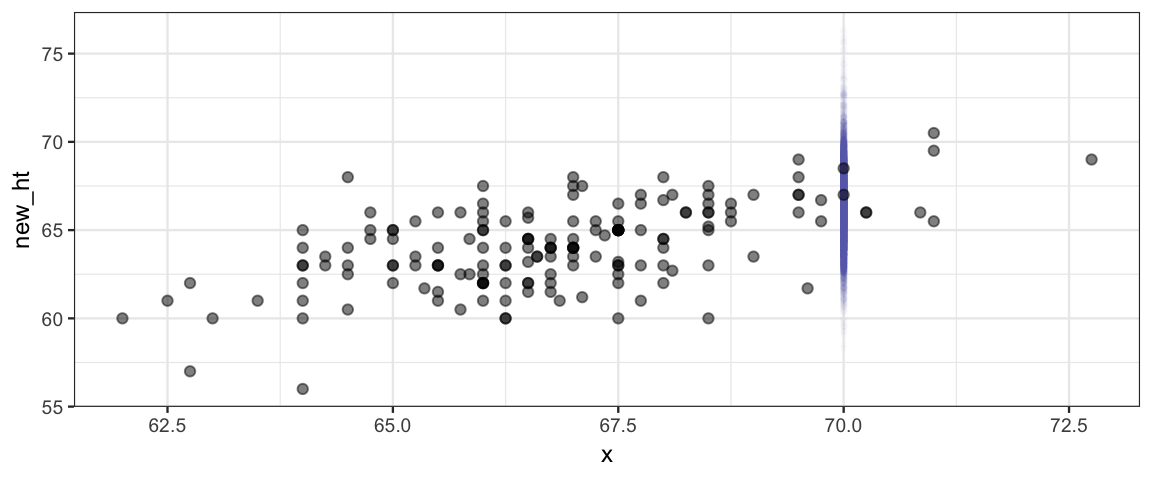
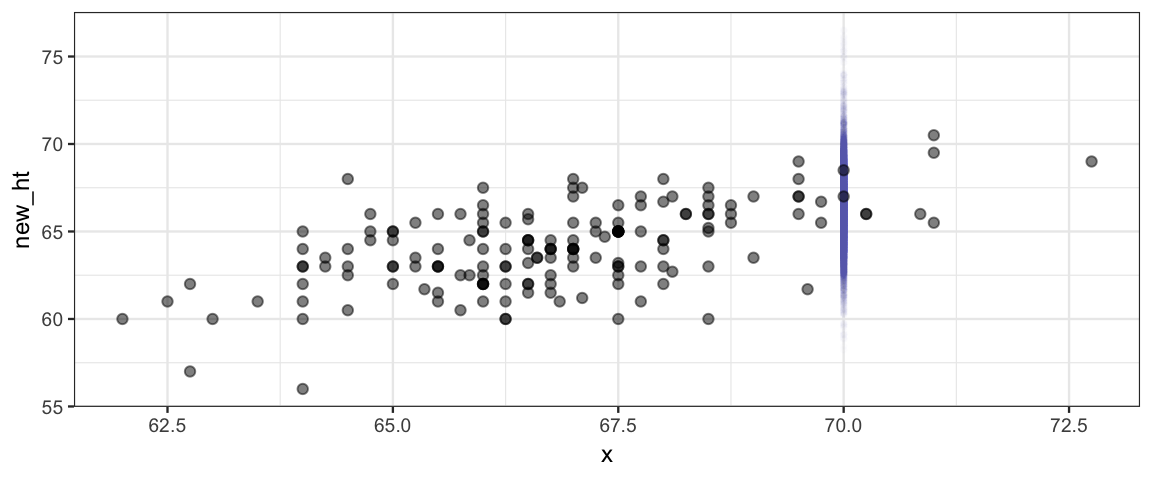
rebuild chap 17

diff --git a/docs/simple-linear-regression.html b/docs/simple-linear-regression.html
@@ -381,6 +381,7 @@ code span.wa { color: #60a0b0; font-weight: bold; font-style: italic; } /* Warni
 <li class="chapter" data-level="18.1.2" data-path="multiple-metric-predictors.html"><a href="multiple-metric-predictors.html#sat-vs-expenditure-and-percent-taking-the-test"><i class="fa fa-check"></i><b>18.1.2</b> SAT vs expenditure and percent taking the test</a></li>
 <li class="chapter" data-level="18.1.3" data-path="multiple-metric-predictors.html"><a href="multiple-metric-predictors.html#multiple-predictors-in-pictures"><i class="fa fa-check"></i><b>18.1.3</b> Multiple predictors in pictures</a></li>
 </ul></li>
+<li class="chapter" data-level="18.2" data-path="multiple-metric-predictors.html"><a href="multiple-metric-predictors.html#ch18-exercises"><i class="fa fa-check"></i><b>18.2</b> Exercises</a></li>
 </ul></li>
 </ul>
 
@@ -819,14 +820,14 @@ that mean. We can add that information in by taking our estimate for
 <p>Here we generate heights by adding noise to the estimate given by
 values of <span class="math inline">\(\beta_0\)</span> and <span class="math inline">\(\beta_1\)</span>.</p>
 <pre class="sourceCode r"><code class="sourceCode r"><span class="kw">posterior</span>(galtonC_jags) <span class="op">%&gt;%</span><span class="st">  </span>
-<span class="st">  </span><span class="kw">mutate</span>(<span class="dt">new_ht =</span> beta0 <span class="op">+</span><span class="st"> </span>beta1 <span class="op">*</span><span class="st"> </span><span class="dv">70</span> <span class="op">+</span><span class="st"> </span><span class="kw">rstudent_t</span>(<span class="dv">1200</span>, <span class="dt">df =</span> nu, <span class="dt">sd =</span> sigma)) <span class="op">%&gt;%</span>
+<span class="st">  </span><span class="kw">mutate</span>(<span class="dt">new_ht =</span> beta0 <span class="op">+</span><span class="st"> </span>beta1 <span class="op">*</span><span class="st"> </span><span class="dv">70</span> <span class="op">+</span><span class="st"> </span><span class="kw">rstudent_t</span>(<span class="dv">1200</span>, <span class="dt">df =</span> nu, <span class="dt">sigma =</span> sigma)) <span class="op">%&gt;%</span>
 <span class="st">  </span><span class="kw">gf_point</span>(new_ht <span class="op">~</span><span class="st"> </span><span class="dv">70</span>, <span class="dt">alpha =</span> <span class="fl">0.01</span>, <span class="dt">size =</span> <span class="fl">0.7</span>, <span class="dt">color =</span> <span class="st">&quot;steelblue&quot;</span>) <span class="op">%&gt;%</span>
 <span class="st">  </span><span class="kw">gf_point</span>(height <span class="op">~</span><span class="st"> </span>midparent, <span class="dt">data =</span> GaltonW, 
            <span class="dt">inherit =</span> <span class="ot">FALSE</span>, <span class="dt">alpha =</span> <span class="fl">0.5</span>) </code></pre>
 <p><img src="Redoing_files/figure-html/ch17-galtonC-plot-predictions-1.png" width="576" /></p>
 <pre class="sourceCode r"><code class="sourceCode r">Galton_hdi2 &lt;-
 <span class="st">  </span><span class="kw">posterior</span>(galtonC_jags) <span class="op">%&gt;%</span><span class="st"> </span>
-<span class="st">  </span><span class="kw">mutate</span>(<span class="dt">new_ht =</span> beta0 <span class="op">+</span><span class="st"> </span>beta1 <span class="op">*</span><span class="st"> </span><span class="dv">70</span> <span class="op">+</span><span class="st"> </span><span class="kw">rstudent_t</span>(<span class="dv">1200</span>, <span class="dt">df =</span> nu, <span class="dt">sd =</span> sigma)) <span class="op">%&gt;%</span>
+<span class="st">  </span><span class="kw">mutate</span>(<span class="dt">new_ht =</span> beta0 <span class="op">+</span><span class="st"> </span>beta1 <span class="op">*</span><span class="st"> </span><span class="dv">70</span> <span class="op">+</span><span class="st"> </span><span class="kw">rstudent_t</span>(<span class="dv">1200</span>, <span class="dt">df =</span> nu, <span class="dt">sigma =</span> sigma)) <span class="op">%&gt;%</span>
 <span class="st">  </span><span class="kw">hdi</span>(<span class="dt">regex_pars =</span> <span class="st">&quot;new&quot;</span>) 
 Galton_hdi2</code></pre>
 <table>
@@ -841,16 +842,16 @@ Galton_hdi2</code></pre>
 <tbody>
 <tr class="odd">
 <td align="left">new_ht</td>
-<td align="right">62.61</td>
-<td align="right">70.35</td>
+<td align="right">62.38</td>
+<td align="right">70.53</td>
 <td align="right">0.95</td>
 </tr>
 </tbody>
 </table>
 <p>So our model expects that most daughters whose parents have a midparent height
 of 70 inches are between<br />
-62.6 and
-70.3
+62.4 and
+70.5
 inches tall. Notice that this interval
 is taking into account both the uncertainty in our estimates of the
 parameters <span class="math inline">\(\beta_0\)</span>, <span class="math inline">\(\beta_1\)</span>, <span class="math inline">\(\sigma\)</span>, and <span class="math inline">\(\nu\)</span> and the variability in
@@ -866,7 +867,7 @@ Grid &lt;-<span class="st"> </span>
 <span class="st">  </span><span class="kw">expand.grid</span>(<span class="dt">midparent =</span> <span class="dv">60</span><span class="op">:</span><span class="dv">75</span>, <span class="dt">iter =</span> <span class="dv">1</span><span class="op">:</span><span class="kw">nrow</span>(Post_galtonC)) 
  
 <span class="kw">posterior</span>(galtonC_jags) <span class="op">%&gt;%</span>
-<span class="st">  </span><span class="kw">mutate</span>(<span class="dt">noise =</span> <span class="kw">rstudent_t</span>(<span class="dv">12000</span>, <span class="dt">df =</span> nu, <span class="dt">sd =</span> sigma)) <span class="op">%&gt;%</span>
+<span class="st">  </span><span class="kw">mutate</span>(<span class="dt">noise =</span> <span class="kw">rstudent_t</span>(<span class="dv">12000</span>, <span class="dt">df =</span> nu, <span class="dt">sigma =</span> sigma)) <span class="op">%&gt;%</span>
 <span class="st">  </span><span class="kw">left_join</span>(Grid) <span class="op">%&gt;%</span>
 <span class="st">  </span><span class="kw">mutate</span>(<span class="dt">height =</span> beta0 <span class="op">+</span><span class="st"> </span>beta1 <span class="op">*</span><span class="st"> </span>midparent <span class="op">+</span><span class="st"> </span>noise) <span class="op">%&gt;%</span><span class="st"> </span>
 <span class="st">  </span><span class="kw">group_by</span>(midparent) <span class="op">%&gt;%</span>
@@ -876,24 +877,24 @@ Grid &lt;-<span class="st"> </span>
 ## # Groups:   midparent [16]
 ##    midparent par       lo    hi  prob
 ##        &lt;int&gt; &lt;fct&gt;  &lt;dbl&gt; &lt;dbl&gt; &lt;dbl&gt;
-##  1        60 height  55.3  63.0  0.95
-##  2        61 height  56.1  63.7  0.95
-##  3        62 height  56.8  64.3  0.95
-##  4        63 height  57.6  65.0  0.95
-##  5        64 height  58.3  65.7  0.95
-##  6        65 height  59.1  66.5  0.95
-##  7        66 height  59.9  67.2  0.95
-##  8        67 height  60.6  67.9  0.95
-##  9        68 height  61.4  68.7  0.95
-## 10        69 height  62.2  69.6  0.95
-## 11        70 height  62.9  70.3  0.95
-## 12        71 height  63.7  71.1  0.95
-## 13        72 height  64.2  71.7  0.95
-## 14        73 height  65.0  72.5  0.95
-## 15        74 height  65.6  73.2  0.95
-## 16        75 height  66.4  74.1  0.95</code></pre>
+##  1        60 height  55.2  63.2  0.95
+##  2        61 height  55.9  63.9  0.95
+##  3        62 height  56.7  64.6  0.95
+##  4        63 height  57.4  65.3  0.95
+##  5        64 height  58.3  66.1  0.95
+##  6        65 height  59.1  66.8  0.95
+##  7        66 height  59.7  67.4  0.95
+##  8        67 height  60.5  68.2  0.95
+##  9        68 height  61.2  69.0  0.95
+## 10        69 height  61.9  69.6  0.95
+## 11        70 height  62.6  70.4  0.95
+## 12        71 height  63.1  70.9  0.95
+## 13        72 height  63.9  71.8  0.95
+## 14        73 height  64.7  72.5  0.95
+## 15        74 height  65.4  73.3  0.95
+## 16        75 height  66.0  74.1  0.95</code></pre>
 <pre class="sourceCode r"><code class="sourceCode r"><span class="kw">posterior</span>(galtonC_jags) <span class="op">%&gt;%</span>
-<span class="st">  </span><span class="kw">mutate</span>(<span class="dt">noise =</span> <span class="kw">rstudent_t</span>(<span class="dv">12000</span>, <span class="dt">df =</span> nu, <span class="dt">sd =</span> sigma)) <span class="op">%&gt;%</span>
+<span class="st">  </span><span class="kw">mutate</span>(<span class="dt">noise =</span> <span class="kw">rstudent_t</span>(<span class="dv">12000</span>, <span class="dt">df =</span> nu, <span class="dt">sigma =</span> sigma)) <span class="op">%&gt;%</span>
 <span class="st">  </span><span class="kw">left_join</span>(Grid) <span class="op">%&gt;%</span>
 <span class="st">  </span><span class="kw">mutate</span>(<span class="dt">avg_height =</span> beta0 <span class="op">+</span><span class="st"> </span>beta1 <span class="op">*</span><span class="st"> </span>midparent,
          <span class="dt">height =</span> avg_height <span class="op">+</span><span class="st"> </span>noise) <span class="op">%&gt;%</span><span class="st"> </span>
@@ -944,7 +945,7 @@ y_ind &lt;-<span class="st"> </span>
 <span class="st">  </span><span class="kw">posterior_calc</span>(
     galtonC_jags, 
     height <span class="op">~</span><span class="st"> </span>
-<span class="st">      </span>beta0 <span class="op">+</span><span class="st"> </span>beta1 <span class="op">*</span><span class="st"> </span>midparent <span class="op">+</span><span class="st"> </span><span class="kw">rstudent_t</span>(<span class="kw">nrow</span>(GaltonW), <span class="dt">df =</span> nu, <span class="dt">sd =</span> sigma), 
+<span class="st">      </span>beta0 <span class="op">+</span><span class="st"> </span>beta1 <span class="op">*</span><span class="st"> </span>midparent <span class="op">+</span><span class="st"> </span><span class="kw">rstudent_t</span>(<span class="kw">nrow</span>(GaltonW), <span class="dt">df =</span> nu, <span class="dt">sigma =</span> sigma), 
     <span class="dt">data =</span> GaltonW)</code></pre>
 <p>The various posterior predictive check plots begin <code>ppc_</code>. Here is an example:</p>
 <pre class="sourceCode r"><code class="sourceCode r"><span class="kw">ppc_intervals</span>(GaltonW<span class="op">$</span>height, y_avg, <span class="dt">x =</span> GaltonW<span class="op">$</span>midparent)</code></pre>
@@ -968,11 +969,11 @@ own plot however we like.</p>
 ## $ x           &lt;dbl&gt; 72.75, 69.75, 67.50, 67.75, 68.00, 67.75, 67.75, 67.50, 67.00, 67.00, 68.00, …
 ## $ outer_width &lt;dbl&gt; 0.9, 0.9, 0.9, 0.9, 0.9, 0.9, 0.9, 0.9, 0.9, 0.9, 0.9, 0.9, 0.9, 0.9, 0.9, 0.…
 ## $ inner_width &lt;dbl&gt; 0.5, 0.5, 0.5, 0.5, 0.5, 0.5, 0.5, 0.5, 0.5, 0.5, 0.5, 0.5, 0.5, 0.5, 0.5, 0.…
-## $ ll          &lt;dbl&gt; 65.43, 63.27, 61.70, 61.72, 61.96, 61.74, 61.87, 61.66, 61.25, 61.20, 62.00, …
-## $ l           &lt;dbl&gt; 67.29, 65.09, 63.47, 63.59, 63.79, 63.59, 63.64, 63.45, 63.07, 63.04, 63.82, …
-## $ m           &lt;dbl&gt; 68.51, 66.32, 64.64, 64.79, 65.01, 64.79, 64.84, 64.63, 64.27, 64.26, 65.03, …
-## $ h           &lt;dbl&gt; 69.76, 67.54, 65.85, 66.00, 66.17, 66.01, 66.00, 65.82, 65.48, 65.48, 66.21, …
-## $ hh          &lt;dbl&gt; 71.64, 69.34, 67.68, 67.83, 68.02, 67.87, 67.87, 67.60, 67.28, 67.28, 68.02, …</code></pre>
+## $ ll          &lt;dbl&gt; 65.28, 63.12, 61.52, 61.55, 61.79, 61.59, 61.71, 61.51, 61.09, 61.01, 61.84, …
+## $ l           &lt;dbl&gt; 67.22, 65.02, 63.41, 63.52, 63.72, 63.51, 63.57, 63.39, 63.01, 62.98, 63.74, …
+## $ m           &lt;dbl&gt; 68.51, 66.32, 64.64, 64.78, 65.01, 64.79, 64.85, 64.63, 64.27, 64.26, 65.03, …
+## $ h           &lt;dbl&gt; 69.83, 67.62, 65.91, 66.07, 66.24, 66.07, 66.08, 65.89, 65.55, 65.55, 66.28, …
+## $ hh          &lt;dbl&gt; 71.79, 69.48, 67.85, 68.01, 68.18, 68.03, 68.04, 67.76, 67.44, 67.44, 68.18, …</code></pre>
 <pre class="sourceCode r"><code class="sourceCode r">plot_data <span class="op">%&gt;%</span>
 <span class="st">  </span><span class="kw">gf_ribbon</span>(ll <span class="op">+</span><span class="st"> </span>hh <span class="op">~</span><span class="st"> </span>x, <span class="dt">fill =</span> <span class="st">&quot;steelblue&quot;</span>) <span class="op">%&gt;%</span>
 <span class="st">  </span><span class="kw">gf_ribbon</span>(l <span class="op">+</span><span class="st"> </span>h <span class="op">~</span><span class="st"> </span>x, <span class="dt">fill =</span> <span class="st">&quot;steelblue&quot;</span>) <span class="op">%&gt;%</span>
@@ -1067,7 +1068,7 @@ but this doesn’t bother Stan the way it bothers JAGS.</p>
 ## nu           32.68    0.63 26.05    6.31   14.08   24.86   43.31  101.70  1711    1
 ## lp__       -249.99    0.04  1.35 -253.50 -250.62 -249.66 -249.00 -248.33  1401    1
 ## 
-## Samples were drawn using NUTS(diag_e) at Mon Apr  1 14:51:36 2019.
+## Samples were drawn using NUTS(diag_e) at Mon Apr  1 21:51:00 2019.
 ## For each parameter, n_eff is a crude measure of effective sample size,
 ## and Rhat is the potential scale reduction factor on split chains (at 
 ## convergence, Rhat=1).</code></pre>
@@ -1184,7 +1185,7 @@ Post_galton2 &lt;-<span class="st"> </span><span class="kw">posterior</span>(gal
 <span class="st">  </span><span class="kw">posterior_calc</span>(
     galton2_stanfit, 
     yind <span class="op">~</span><span class="st"> </span>beta0 <span class="op">+</span><span class="st"> </span>beta1 <span class="op">*</span><span class="st"> </span>midparent <span class="op">+</span><span class="st"> </span>beta2 <span class="op">*</span><span class="st"> </span>g <span class="op">+</span><span class="st"> </span>
-<span class="st">           </span><span class="kw">rstudent_t</span>(<span class="kw">nrow</span>(GaltonBoth), <span class="dt">df =</span> nu, <span class="dt">mean =</span> <span class="dv">0</span>, <span class="dt">sd =</span> sigma),
+<span class="st">           </span><span class="kw">rstudent_t</span>(<span class="kw">nrow</span>(GaltonBoth), <span class="dt">df =</span> nu, <span class="dt">mean =</span> <span class="dv">0</span>, <span class="dt">sigma =</span> sigma),
     <span class="dt">data =</span> GaltonBoth
   )
 <span class="kw">ppc_intervals_grouped</span>(
@@ -1204,11 +1205,11 @@ Post_galton2 &lt;-<span class="st"> </span><span class="kw">posterior</span>(gal
 ## $ x           &lt;dbl&gt; 72.75, 69.75, 67.50, 67.85, 67.50, 67.75, 68.00, 67.75, 67.75, 67.50, 67.00, …
 ## $ outer_width &lt;dbl&gt; 0.9, 0.9, 0.9, 0.9, 0.9, 0.9, 0.9, 0.9, 0.9, 0.9, 0.9, 0.9, 0.9, 0.9, 0.9, 0.…
 ## $ inner_width &lt;dbl&gt; 0.5, 0.5, 0.5, 0.5, 0.5, 0.5, 0.5, 0.5, 0.5, 0.5, 0.5, 0.5, 0.5, 0.5, 0.5, 0.…
-## $ ll          &lt;dbl&gt; 64.18, 62.45, 66.32, 66.57, 66.44, 66.38, 66.58, 61.25, 61.18, 61.13, 66.18, …
-## $ l           &lt;dbl&gt; 66.31, 64.46, 68.43, 68.62, 68.44, 68.46, 68.72, 63.36, 63.39, 63.18, 68.10, …
-## $ m           &lt;dbl&gt; 67.79, 65.90, 69.79, 70.02, 69.78, 69.90, 70.08, 64.72, 64.76, 64.53, 69.50, …
-## $ h           &lt;dbl&gt; 69.20, 67.31, 71.12, 71.34, 71.15, 71.28, 71.44, 66.14, 66.11, 65.91, 70.88, …
-## $ hh          &lt;dbl&gt; 71.29, 69.31, 73.28, 73.33, 73.23, 73.33, 73.58, 68.22, 68.12, 67.99, 72.91, …</code></pre>
+## $ ll          &lt;dbl&gt; 64.03, 62.26, 66.18, 66.40, 66.25, 66.20, 66.41, 61.08, 60.97, 60.99, 66.02, …
+## $ l           &lt;dbl&gt; 66.25, 64.39, 68.35, 68.55, 68.37, 68.39, 68.65, 63.28, 63.32, 63.12, 68.01, …
+## $ m           &lt;dbl&gt; 67.79, 65.90, 69.79, 70.02, 69.78, 69.90, 70.07, 64.71, 64.76, 64.53, 69.51, …
+## $ h           &lt;dbl&gt; 69.27, 67.37, 71.19, 71.41, 71.22, 71.35, 71.52, 66.21, 66.20, 65.99, 70.95, …
+## $ hh          &lt;dbl&gt; 71.47, 69.46, 73.44, 73.51, 73.38, 73.48, 73.74, 68.40, 68.31, 68.11, 73.08, …</code></pre>
 <pre class="sourceCode r"><code class="sourceCode r"><span class="kw">gf_ribbon</span>(ll <span class="op">+</span><span class="st"> </span>hh <span class="op">~</span><span class="st"> </span>x, <span class="dt">fill =</span> <span class="op">~</span><span class="st"> </span>group, <span class="dt">data =</span> ppc_data) <span class="op">%&gt;%</span>
 <span class="st">  </span><span class="kw">gf_ribbon</span>(l <span class="op">+</span><span class="st"> </span>h <span class="op">~</span><span class="st"> </span>x, <span class="dt">fill =</span> <span class="op">~</span><span class="st"> </span>group, <span class="dt">data =</span> ppc_data) <span class="op">%&gt;%</span>
 <span class="st">  </span><span class="kw">gf_point</span>(y_obs <span class="op">~</span><span class="st"> </span>x, <span class="dt">color =</span>  <span class="op">~</span><span class="st"> </span>group, <span class="dt">data =</span> ppc_data) <span class="op">%&gt;%</span>
